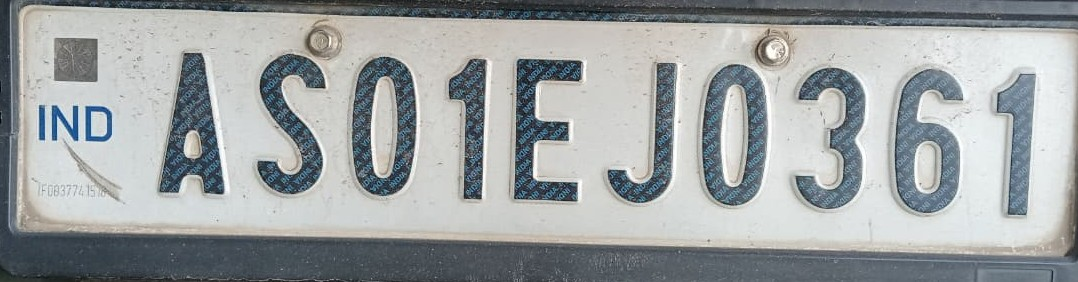
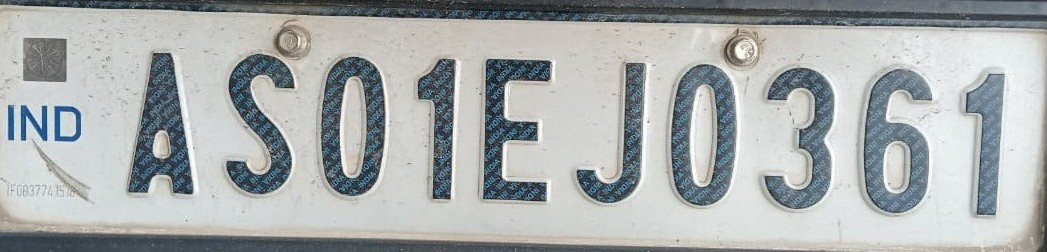
edited images

diff --git a/main.py b/main.py
@@ -4,7 +4,7 @@ from PIL import Image
 
 pytesseract.pytesseract.tesseract_cmd = r"/usr/bin/tesseract"
 
-img = cv2.imread("images/plate1.jpg")
+img = cv2.imread("images/geet.jpg")
 
 gray = cv2.cvtColor(img, cv2.COLOR_BGR2GRAY)
 
